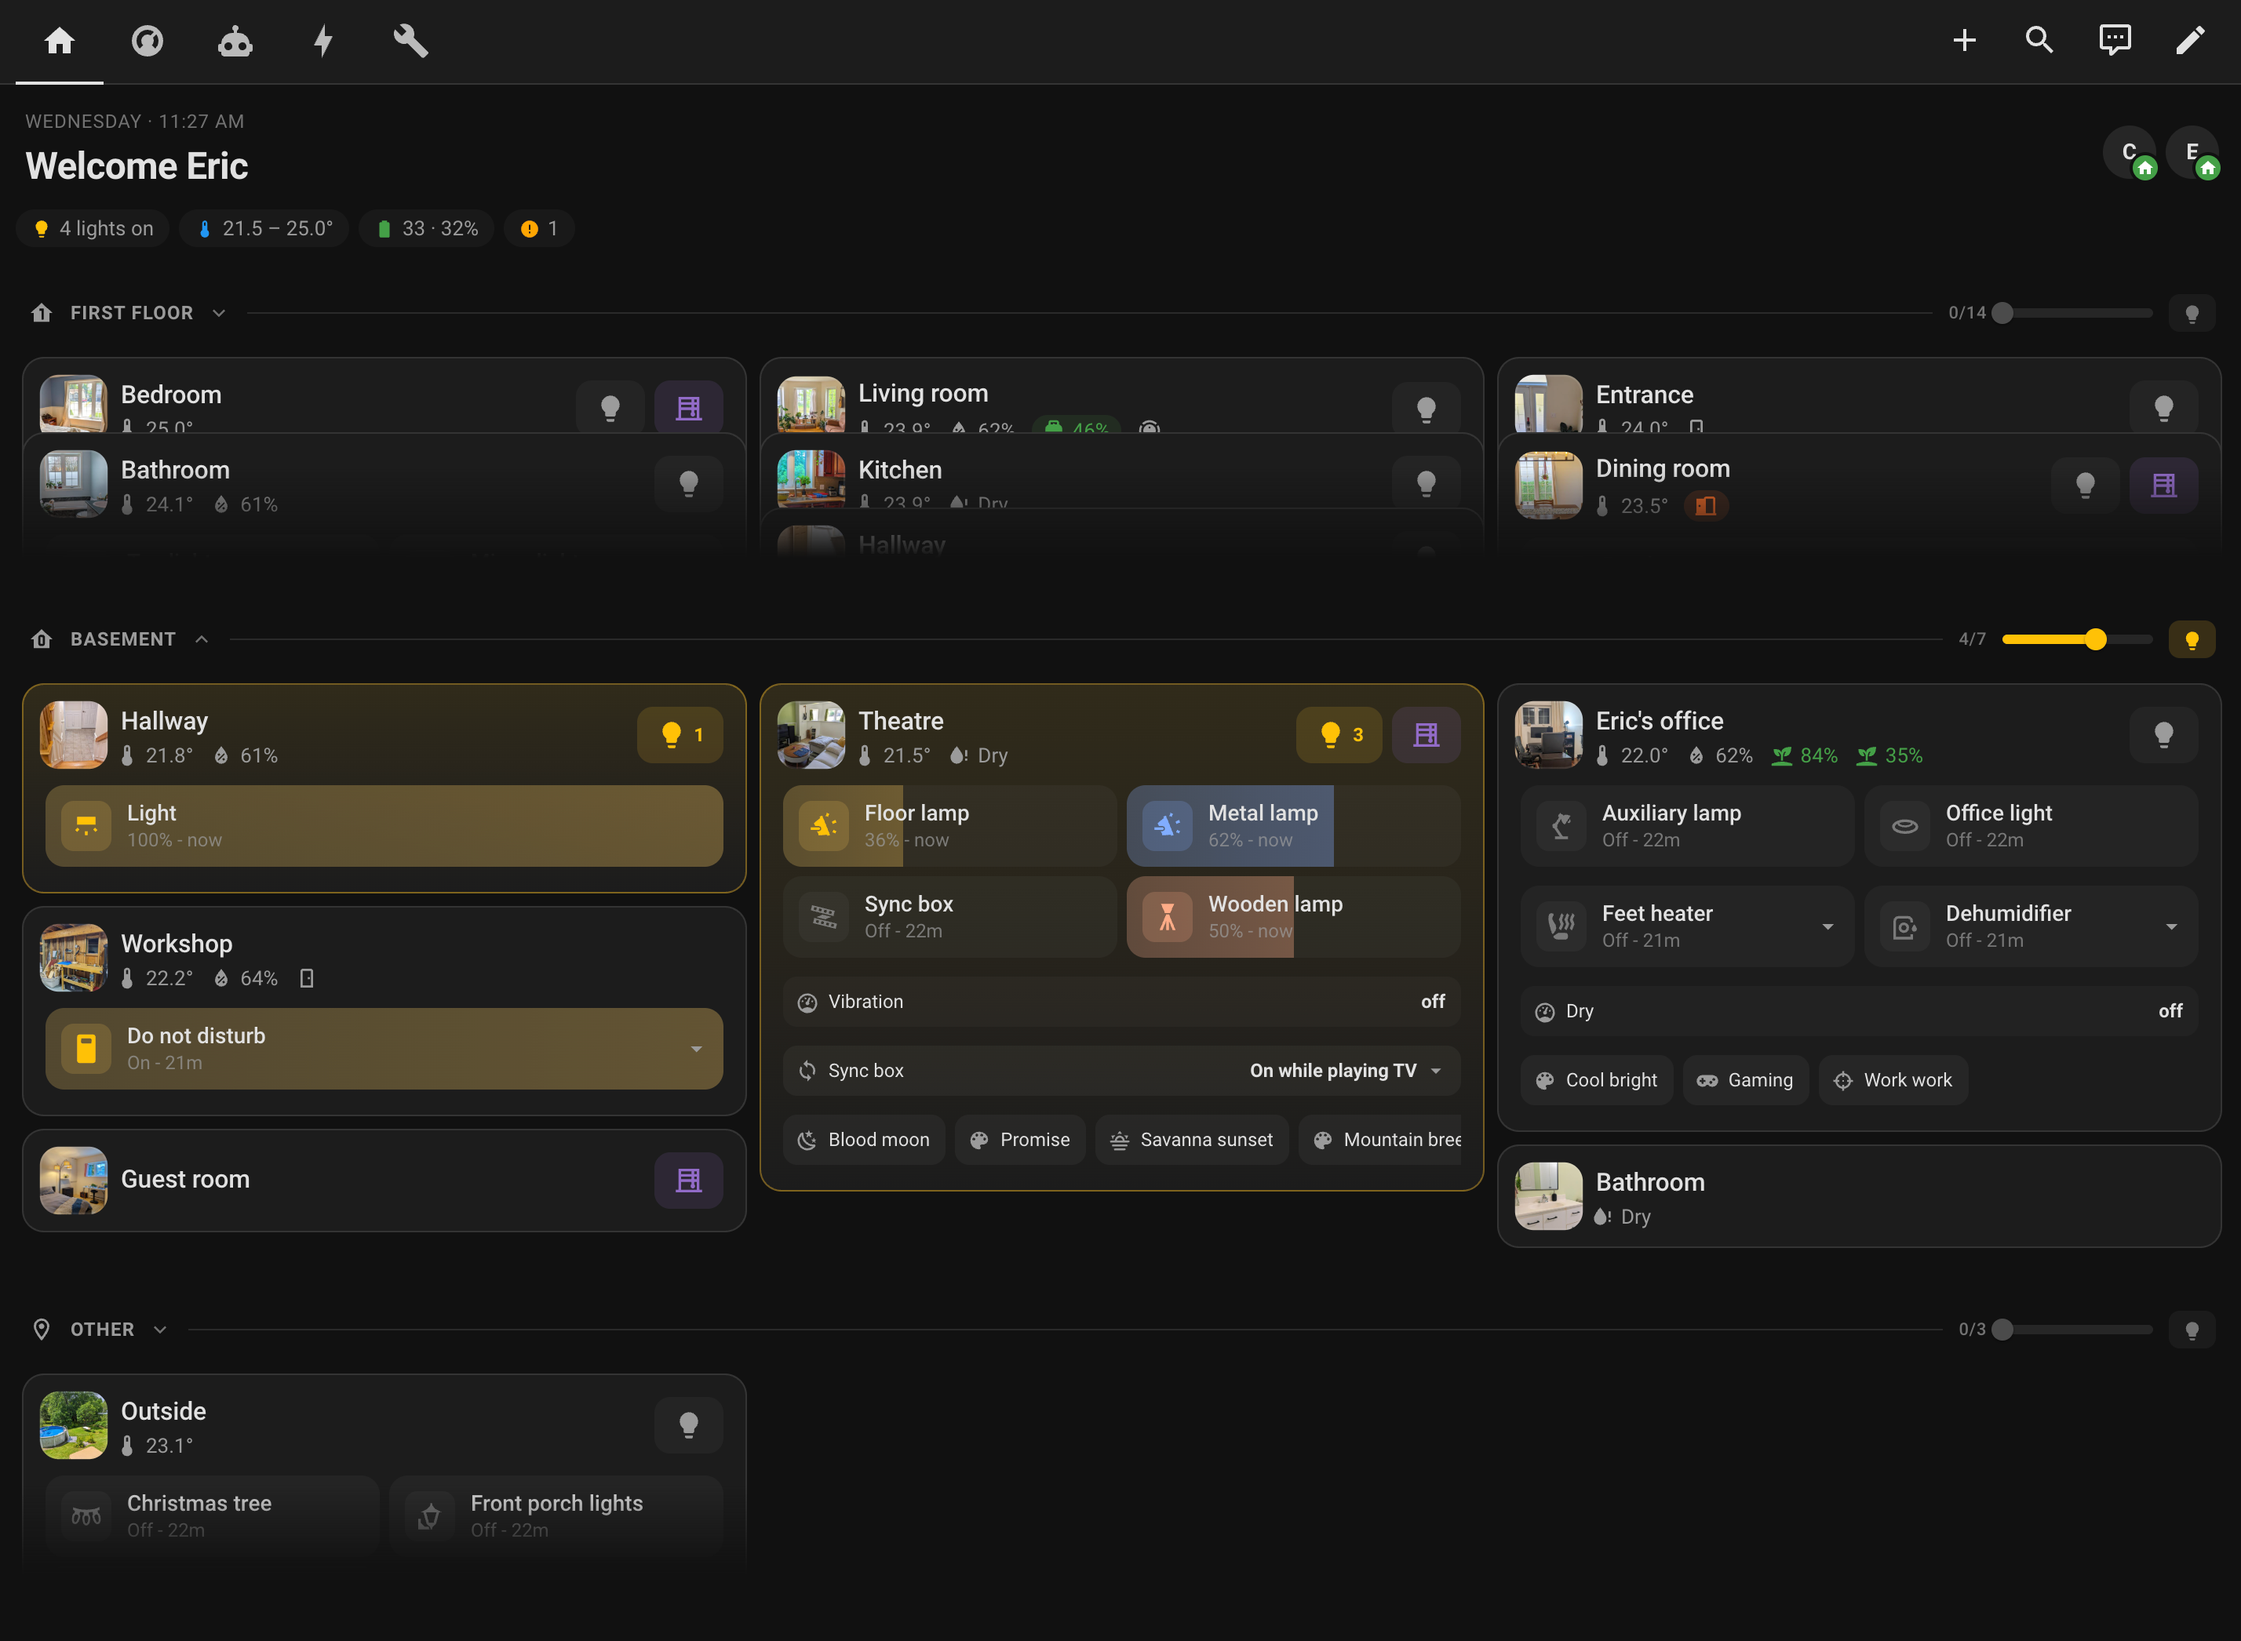
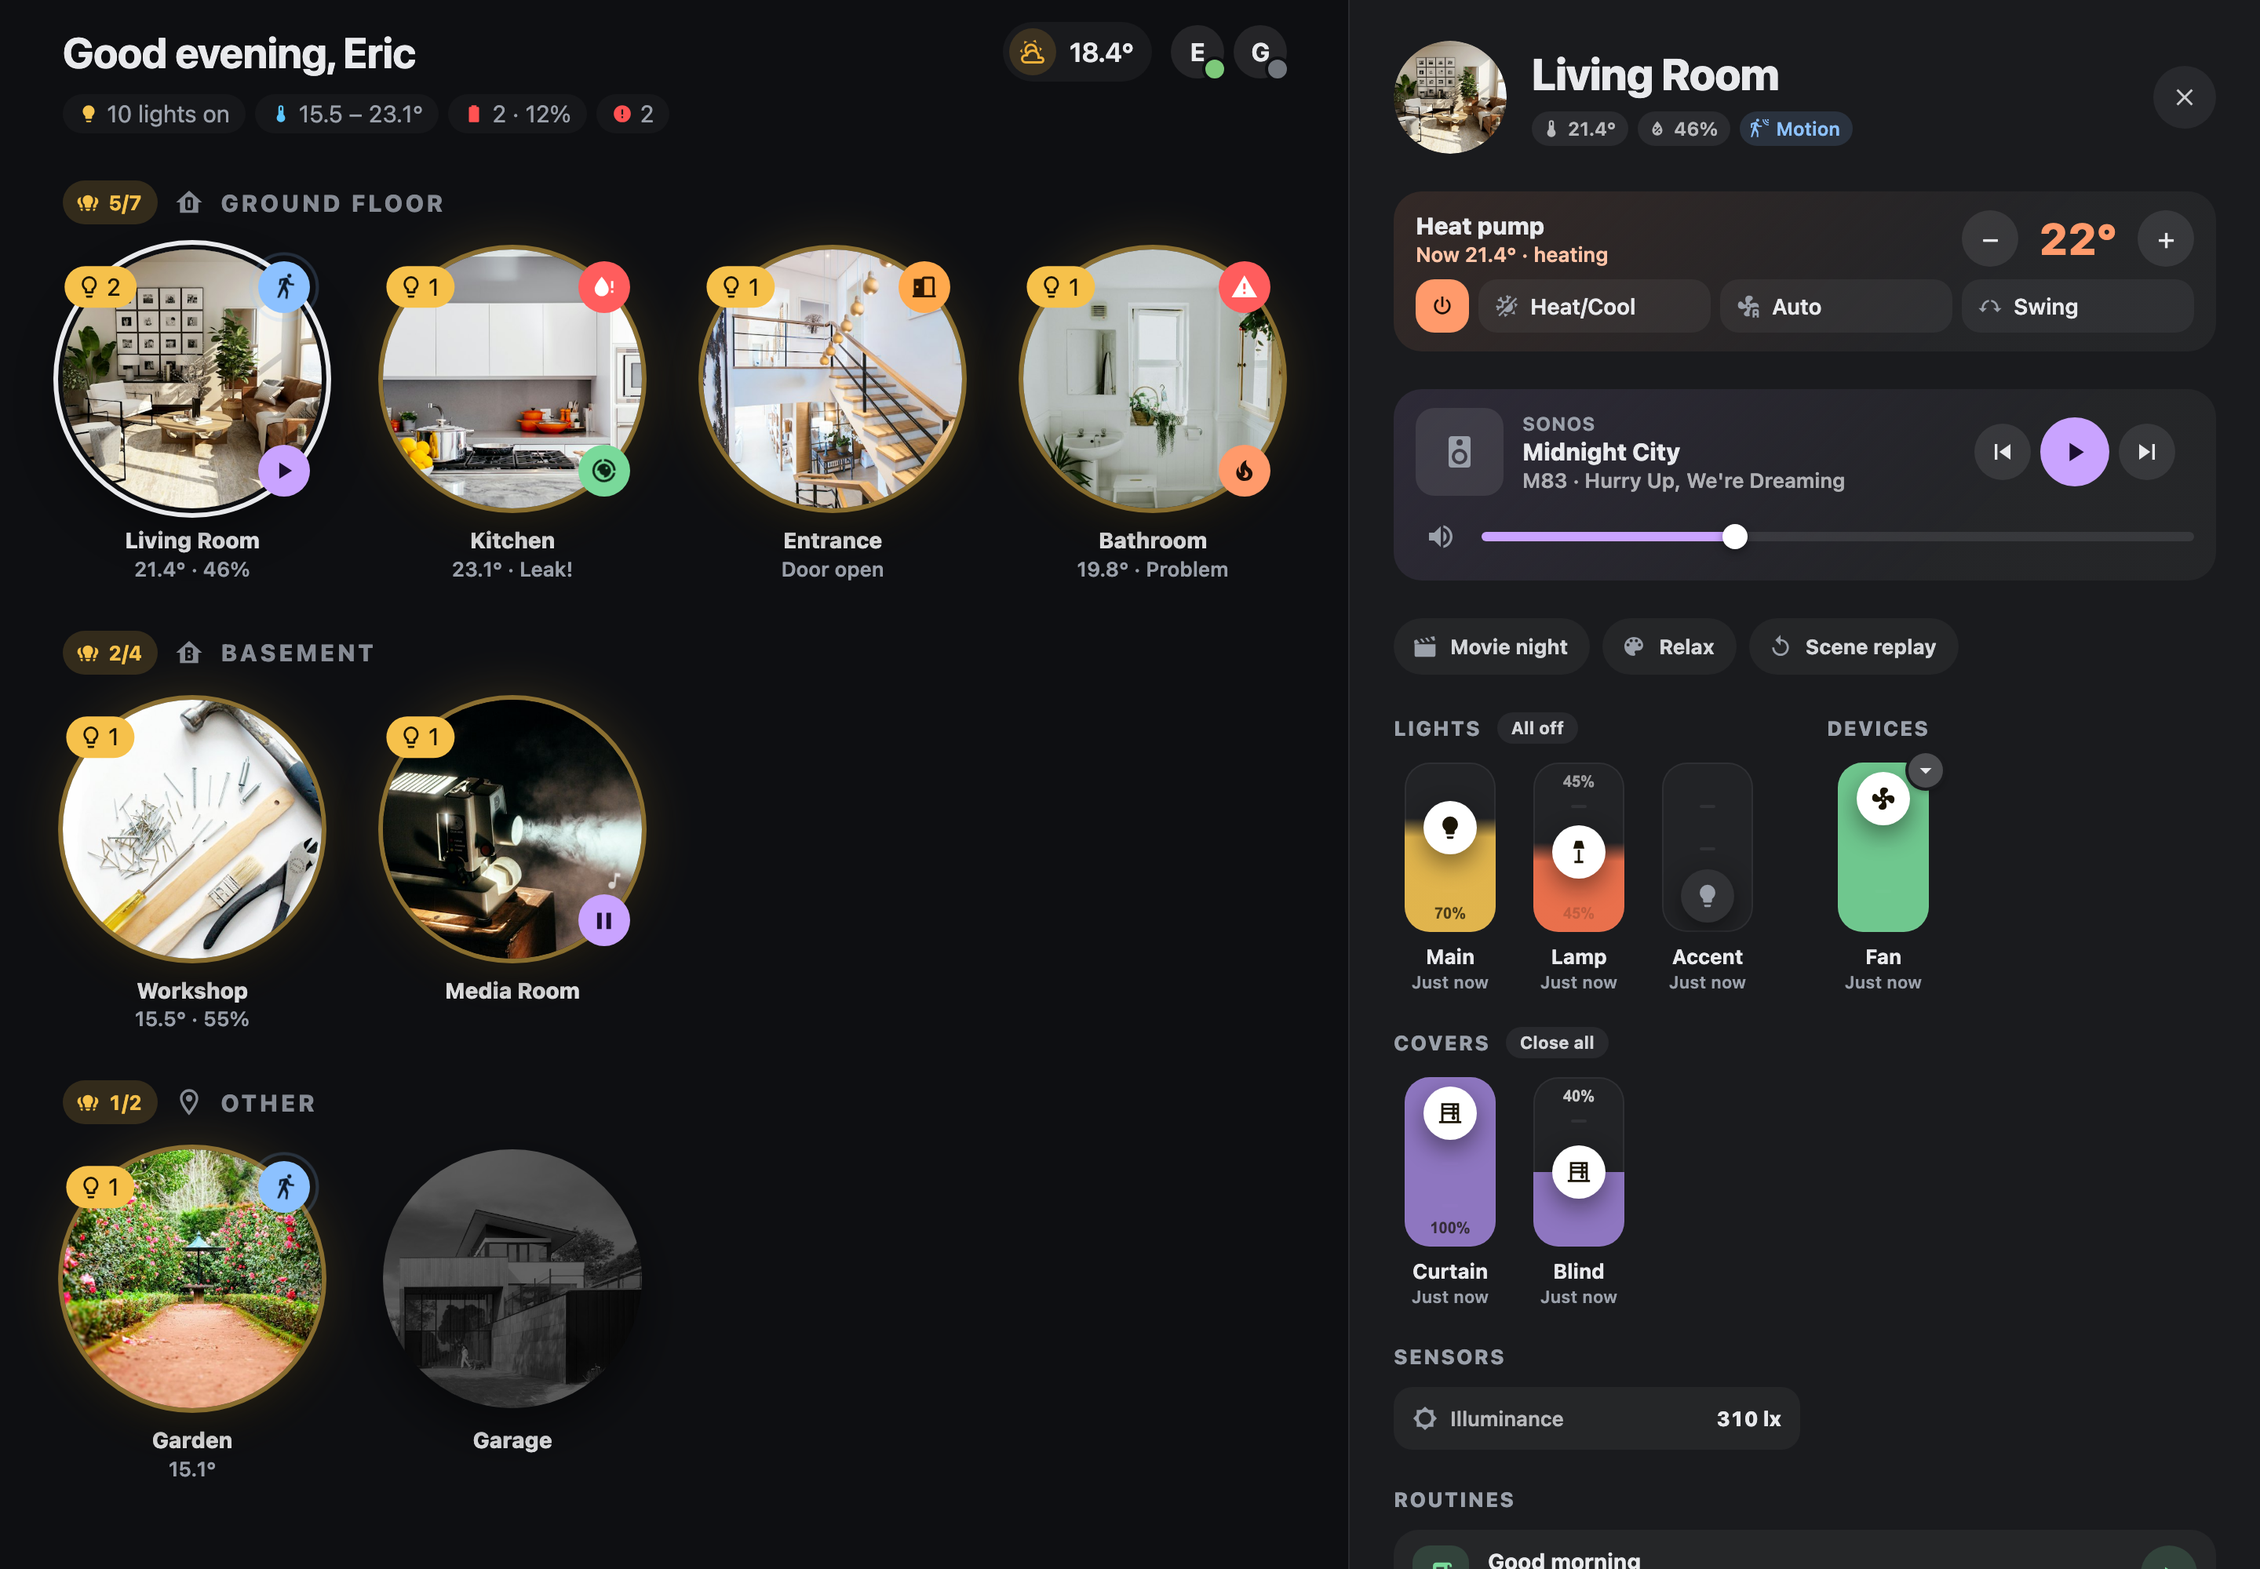
README preview: the new Rooms view on desktop; dim the routines badge hint
- images/preview-dark.png is now a 1440px desktop capture of the dev
  dashboard with the Living Room panel open. The light-theme preview
  showed the old accordion layout and is removed (the dev dashboard has
  no light theme to recapture it from).
- Dev: `?room=<area_id>` opens that room's panel on load, for captures.
- The "· click to show/hide" part of the routines badge is dimmed.

diff --git a/src/components/area-card-builders.js b/src/components/area-card-builders.js
@@ -547,7 +547,7 @@ export function _buildAutomationsSection(area, data) {
   const badge = document.createElement("button");
   badge.type = "button";
   badge.className = "atrium-autos-trigger";
-  badge.innerHTML = `<span class="atrium-autos-trigger-iconwrap">${haIcon("mdi:pause-circle-outline", 20)}</span><span class="atrium-autos-trigger-label"></span>`;
+  badge.innerHTML = `<span class="atrium-autos-trigger-iconwrap">${haIcon("mdi:pause-circle-outline", 20)}</span><span class="atrium-autos-trigger-label"><span></span><span class="atrium-autos-trigger-hint"></span></span>`;
   badge.addEventListener("click", () => {
     open.showDisabled = !open.showDisabled;
     this._routineDrawers.set(area.area_id, { ...open });
@@ -568,7 +568,9 @@ export function _updateRoutinesBadge(data) {
   const { badge, drawers, open } = this._routinesUI;
   const count = data.disabledAutomations.length;
   drawers.hidden = !count;
-  badge.lastChild.textContent = `${count} off · click to ${open.showDisabled ? "hide" : "show"}`;
+  const [countEl, hintEl] = badge.lastChild.children;
+  countEl.textContent = `${count} off`;
+  hintEl.textContent = ` · click to ${open.showDisabled ? "hide" : "show"}`;
   badge.classList.toggle("open", open.showDisabled);
   badge.setAttribute("aria-pressed", String(open.showDisabled));
 }

diff --git a/src/components/area-card.css b/src/components/area-card.css
@@ -290,6 +290,7 @@ button.atrium-badge { cursor: pointer; }
 .atrium-autos-trigger.open { background: var(--a-knob); color: var(--a-text); }
 .atrium-autos-trigger-iconwrap { display: inline-flex; --mdc-icon-size: 16px; }
 .atrium-autos-trigger-label { font-size: 13px; font-weight: 600; color: var(--a-text); }
+.atrium-autos-trigger-hint { font-weight: 500; color: var(--a-dim); }
 
 /* ── Phone: room picked → strip on top, sheet below ──────────────────── */
 @media (max-width: 860px) {

diff --git a/dev/main.js b/dev/main.js
@@ -60,3 +60,8 @@ view.className = "dev-view is-active";
 document.getElementById("views").appendChild(view);
 mount("atrium-header", { floor: ALL_FLOOR_KEY, welcome_name: "Eric" }, view);
 mount("atrium-rooms", { floors: FLOORS }, view);
+
+// `?room=<area_id>` opens that room's details panel on load — handy for
+// screenshots (e.g. the README's preview).
+const room = new URLSearchParams(location.search).get("room");
+if (room) setTimeout(() => document.querySelector("atrium-rooms")?._select(room));

diff --git a/README.md b/README.md
@@ -10,9 +10,7 @@ No YAML editing, no per-room configuration.
 - **Home** — every floor and area as a photo tile. Tap one to open its details panel: lights, switches and covers as swipe-to-dim tiles, the room's thermostat, scenes, sensor readings, and its routines (scripts & automations) — all in one place, no separate Routines tab.
 - Any number of **custom tabs** — fully config-driven, for things the strategy can't auto-discover (energy monitoring, system health, etc.).
 
-![Atrium dashboard Home view, dark theme, showing floors, areas, and per-room lights, climate, and sensors](images/preview-dark.png)
-
-![Atrium dashboard Home view, light theme, showing floors, areas, and per-room lights, climate, and sensors](images/preview-light.png)
+![Atrium dashboard Home view on desktop, dark theme: floors of round area photo tiles on the left, the Living Room's details panel open on the right with its heat pump, Sonos player, scenes, light and cover tiles, sensors and routines](images/preview-dark.png)
 
 ## Prerequisites
 
